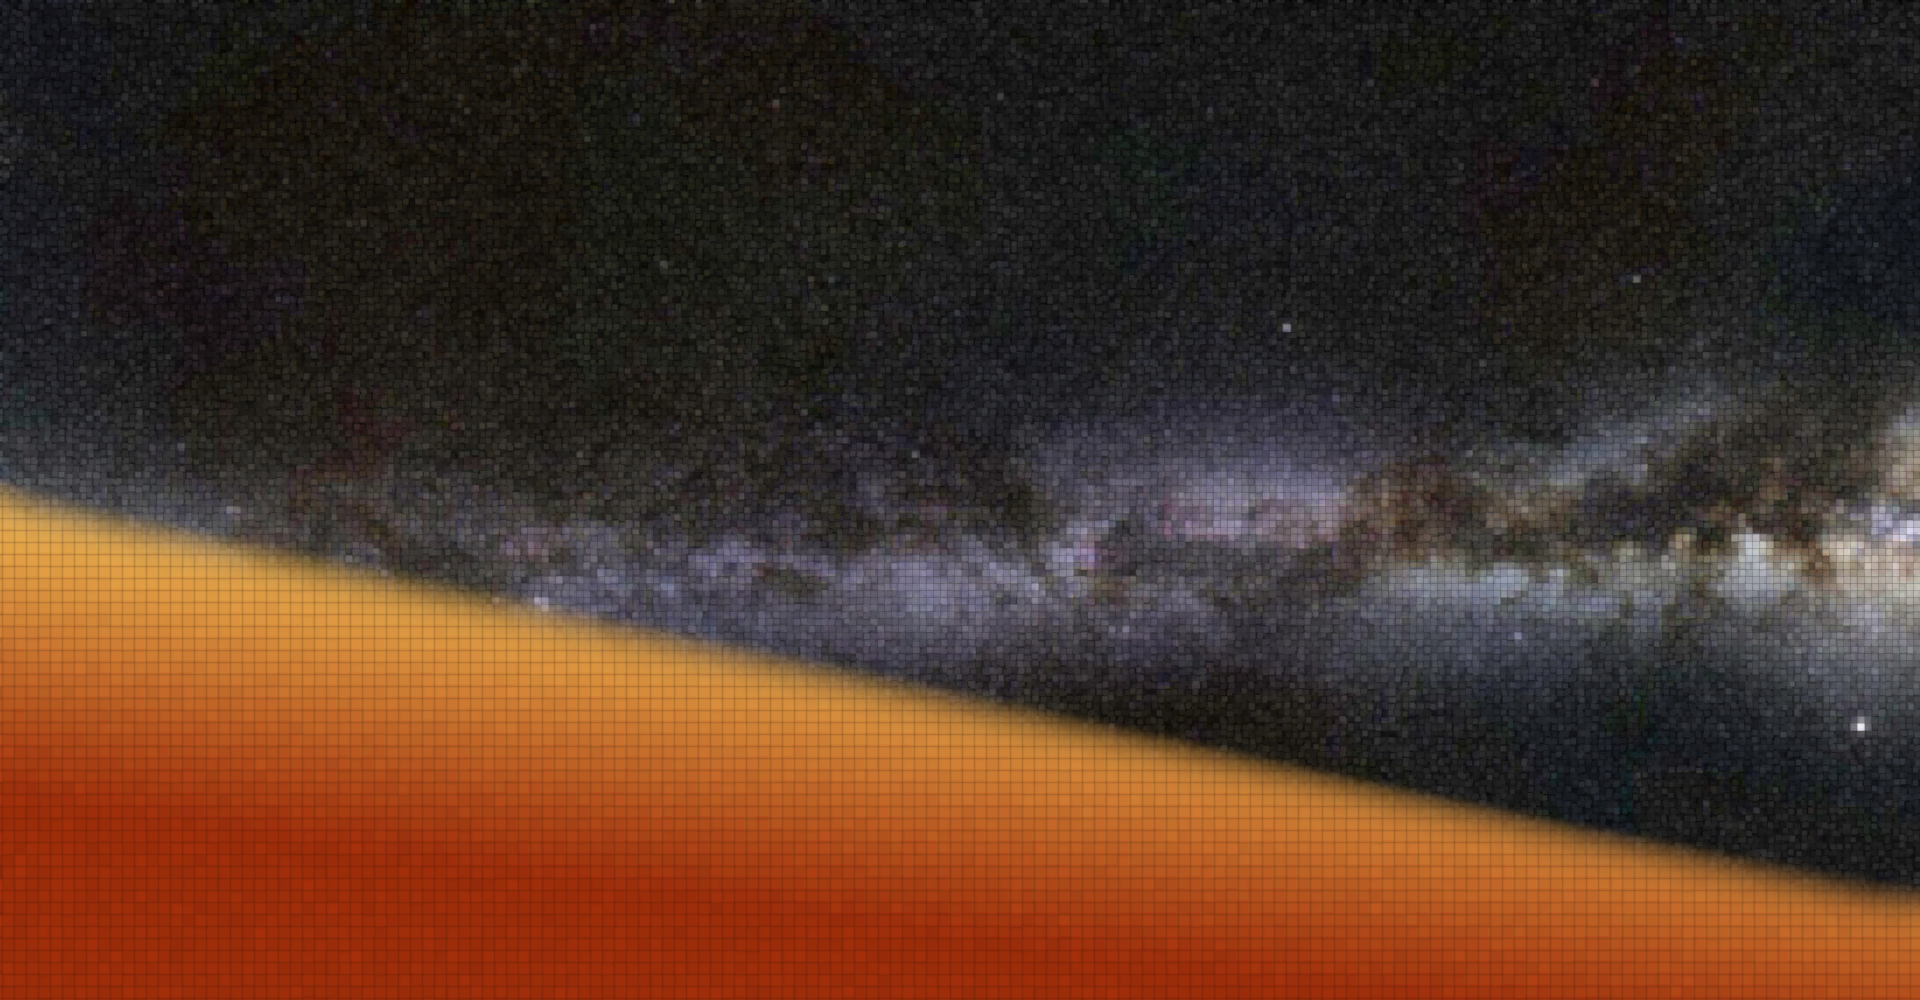
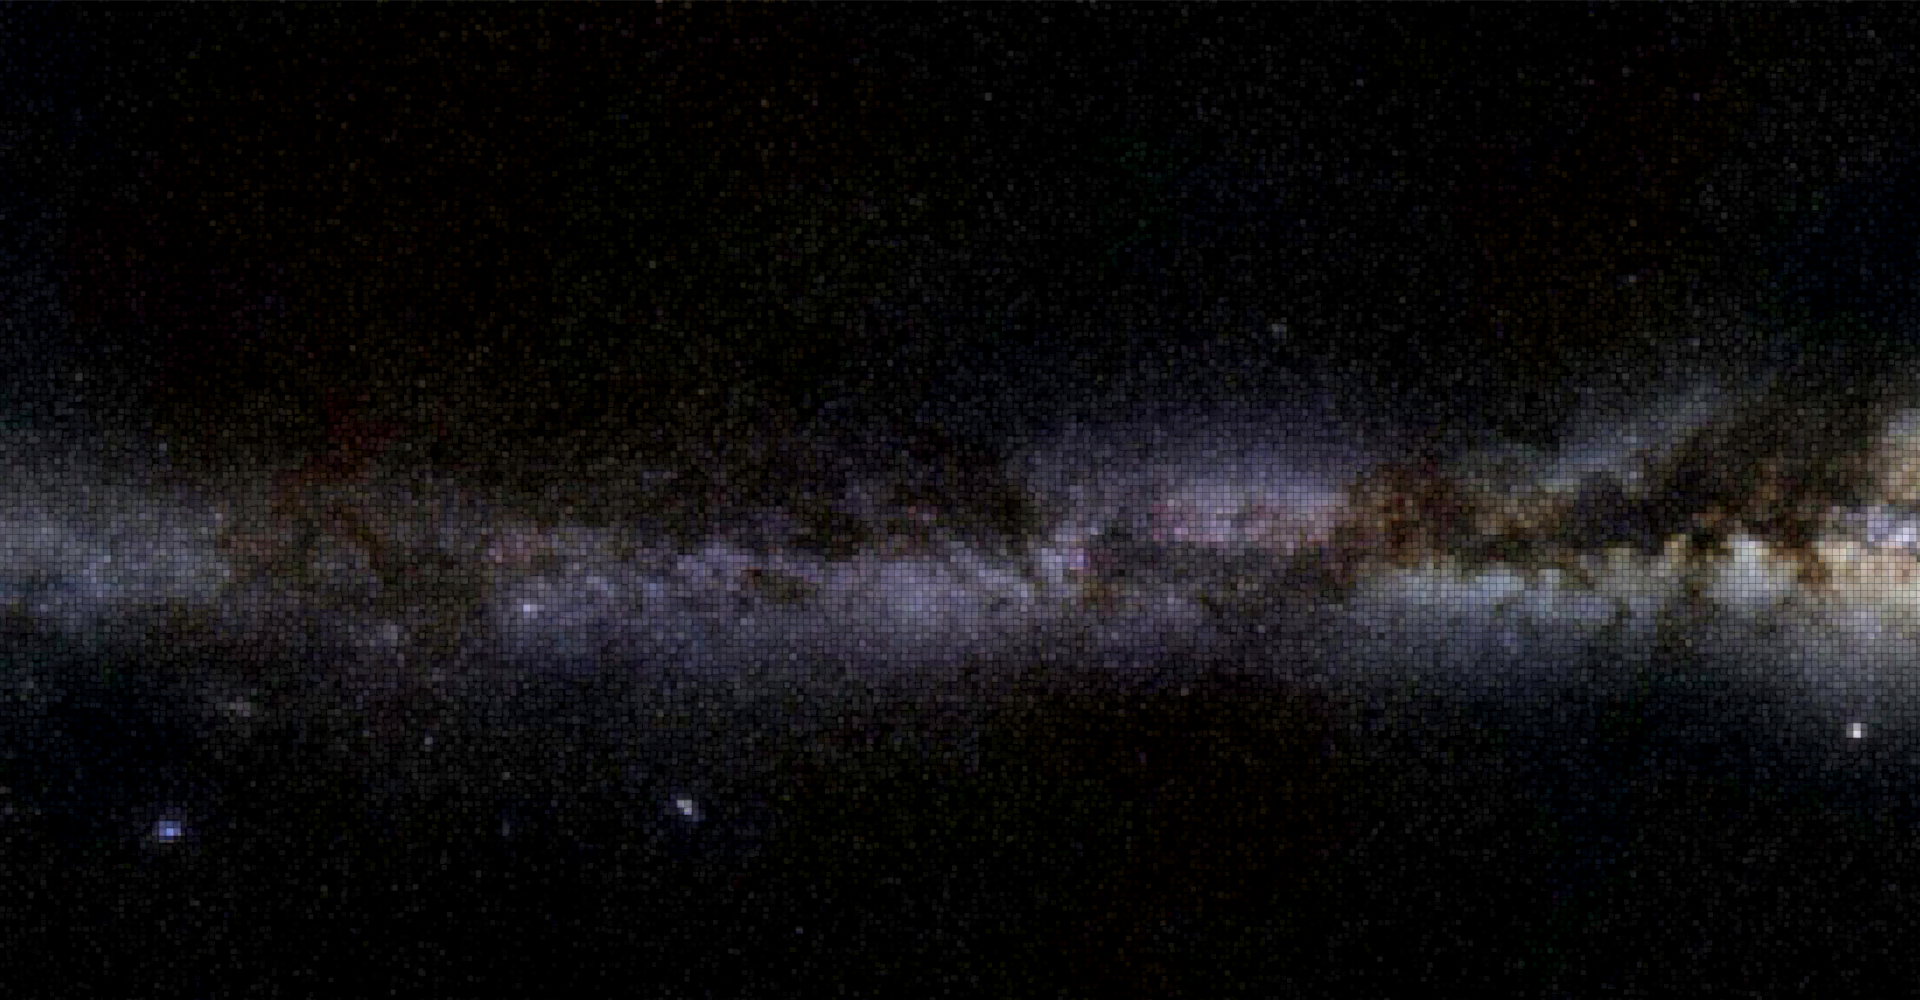
commit des changements relatifs au fond et à l'animation du vaisseau de la page d'accueil

diff --git a/public/css/styleWelcome.css b/public/css/styleWelcome.css
@@ -1,14 +1,12 @@
 body{
     display: flex;
-    justify-content: center;
-    align-items: center;
     padding-top: 3vh;
     padding-left: 0.5vw;
-    width: 99vw;
-    height: 91vh;
+    width: 100vw;
+    height: 100vh;
     background-image: url("../../Ressources/VisuelsOK/startscreenFondV2.png");
-    background-repeat: no-repeat;
-   
+    background-size: 100vw 100vh;
+    z-index: -2;
 }
 
 .fond{
@@ -16,32 +14,60 @@ body{
     justify-content: left;
     align-items: flex-end;
     width: 100vw;
-    height: 100vh;
+    height: 97vh;
+}
+
+.sol{
+    display: flex;
+    justify-content: left;
+    align-items: flex-end;
+    position: fixed;
+    z-index: 1;
+    width: 1000px;
+    height: 540px;
+}
+
+.sol2{
+    display: flex;
+    justify-content: right;
+    align-items: flex-start;
+    position: fixed;
+    z-index: 1;
+    margin-left: 1000px;
+    width: 1000px;
+    height: 540px;
+   -webkit-transform: scaleX(-1);
+    transform: scaleX(-1);
 }
 
 .vaisseau{
     display: flex;
+    justify-content: left;
+    position: relative;
     width: 60%;
     height: 60%;
     padding-left: 0vw;
     padding-bottom: 0vh;
+    z-index: 3;
 }
 
 .boutonLancement{
     background-color: aqua;
     color: black;
+    position: fixed;
+    z-index: 5;
 }
 
 #VAISSEAU{
     /* animation: a1 3s forwards ease-in; */
-    animation-name: "a1";
-    animation-duration : 6s;
-    animation-fill-mode: forwards;
-    animation-timing-function: ease-in;
-    animation-play-state : paused;
+    -webkit-animation-name: "a1";
+    -webkit-animation-duration : 6s;
+    -webkit-animation-fill-mode: forwards;
+    -webkit-animation-timing-function: ease-in;
+    -webkit-animation-play-state : paused;
     }
 
-@keyframes a1{
+@-webkit-keyframes a1{
     0%{
         display: flex;
         width: 60%;

diff --git a/view/frontend/phenomenesIG.php b/view/frontend/phenomenesIG.php
@@ -1,0 +1,54 @@
+<?php 
+// var_dump($infosPhenomeneIG);
+$infos = $infosPhenomeneIG[0]; 
+$title = $infos[1];
+$style = null;
+?>
+
+
+
+<a href="index.php?action=infinimentGrand">Poursuivre l'exploration de l'infini</a>
+
+<div class="card  mb-3">
+    <div  class="card-header">
+        <h3>
+            <?php echo htmlspecialchars($infos['nameOfTopic']); ?>
+        </h3>
+    </div>
+    <div class="card-body">
+        <p class="card-text">
+            À propos : 
+            <?php
+            echo nl2br(htmlspecialchars($infos['subjectDescription']));
+            ?>
+        </p>
+        <p class="card-text">
+            Histoire : 
+            <?php
+            echo nl2br(htmlspecialchars($infos['history']));
+            ?>
+        </p>
+        <p class="card-text">
+            Dimensions : 
+            <?php
+            echo nl2br(htmlspecialchars($infos['dimensions']));
+            ?>
+        </p>
+        <p class="card-text">
+            Composition : 
+            <?php
+            echo nl2br(htmlspecialchars($infos['composition']));
+            ?>
+        </p>
+        <p class="card-text">
+            Personnalités liées : 
+            <?php
+            echo nl2br(htmlspecialchars($infos['peopleRelatedTo']));
+            ?>
+        </p>
+    </div>
+</div>
+
+
+<?php $content = ob_get_clean(); ?>
+<?php require('template.php'); ?>

diff --git a/view/frontend/welcome.php b/view/frontend/welcome.php
@@ -5,16 +5,19 @@
 
 <!-- <em><a class="btn btn-primary">Launch!</a></em> -->
 <div id="wrap"></div>
-<div class="fond">
-        
-    <div>
+<div>
         <a href="javascript:delay('index.php?action=launch')"><button class="boutonLancement" id="BOUTONLANCEMENT" onclick="launch()" >Launch</button></a>
-    </div>
+</div>
+    <div class="fond">
+    
+        <img src="Ressources/VisuelsOK/startscreenFondSol.png" class="sol">
+        <img src="Ressources/VisuelsOK/startscreenFondSol.png" class="sol2">
+
     <div>
         <img src="Ressources/VisuelsOK/startscreenShipV3.png" id="VAISSEAU" class="vaisseau">
     </div>
 
-</div>
+  </div>
 
 <?php $content = ob_get_clean(); ?>
 <?php require('template.php'); ?>

diff --git a/model/frontend.php b/model/frontend.php
@@ -47,6 +47,13 @@ function getNamePhenomenons(){
     return $req ->fetchAll();
 }
 
+function getInfosPhenomeneIG($namePhenomenonIG){
+    $db = dbConnect(); 
+    $req = $db->prepare('SELECT * FROM PhenomenesInfinimentGrand WHERE nameOfTopic = ? ORDER BY id');
+    $req->execute(array($namePhenomenonIG));
+    return $req ->fetchAll();
+}
+
 function getInfosSatellite($nameSatellite){
     $db = dbConnect(); 
     $req = $db->prepare('SELECT * FROM satellites WHERE nameSatellite = ? ORDER BY id');

diff --git a/index.php b/index.php
@@ -8,7 +8,9 @@
             planets($_GET['name']);
         } elseif($_GET['action'] == 'infinimentGrand'){
             topics();
-        } elseif($_GET['action'] == 'satellites'){
+        } elseif($_GET['action'] == 'phenomeneIG'){
+            phenomeneIG($_GET['name']);
+        }  elseif($_GET['action'] == 'satellites'){
             satellites($_GET['name']);
         } elseif($_GET['action'] == 'infinimentPetit'){
             minisizeTopics();

diff --git a/controller/frontend.php b/controller/frontend.php
@@ -24,6 +24,11 @@ function topics(){
     require('view/frontend/launchedInfinimentGrand.php');
 } 
 
+function phenomeneIG($namePhenomenonIG){
+    $infosPhenomeneIG = getInfosPhenomeneIG($namePhenomenonIG);
+    require('view/frontend/phenomenesIG.php');
+}
+
 function satellites($namesSatellite){
     $infosSatellites = getInfosSatellite($namesSatellite); 
     require('view/frontend/satellites.php');

diff --git a/view/frontend/launchedInfinimentGrand.php b/view/frontend/launchedInfinimentGrand.php
@@ -8,7 +8,7 @@
  <div class ="d-flex">
  <?php foreach($namesPhenomenon as $name){ ?>
      
-       <a href="index.php?action=nameOfTopic&name=<?=$name[0]?>" class="btn btn-primary"> <?=$name[0]?> </a>
+       <a href="index.php?action=phenomeneIG&name=<?=$name[0]?>" class="btn btn-primary"> <?=$name[0]?> </a>
  <?php } ?> 
 </div> 
 <?php $content = ob_get_clean(); ?>
